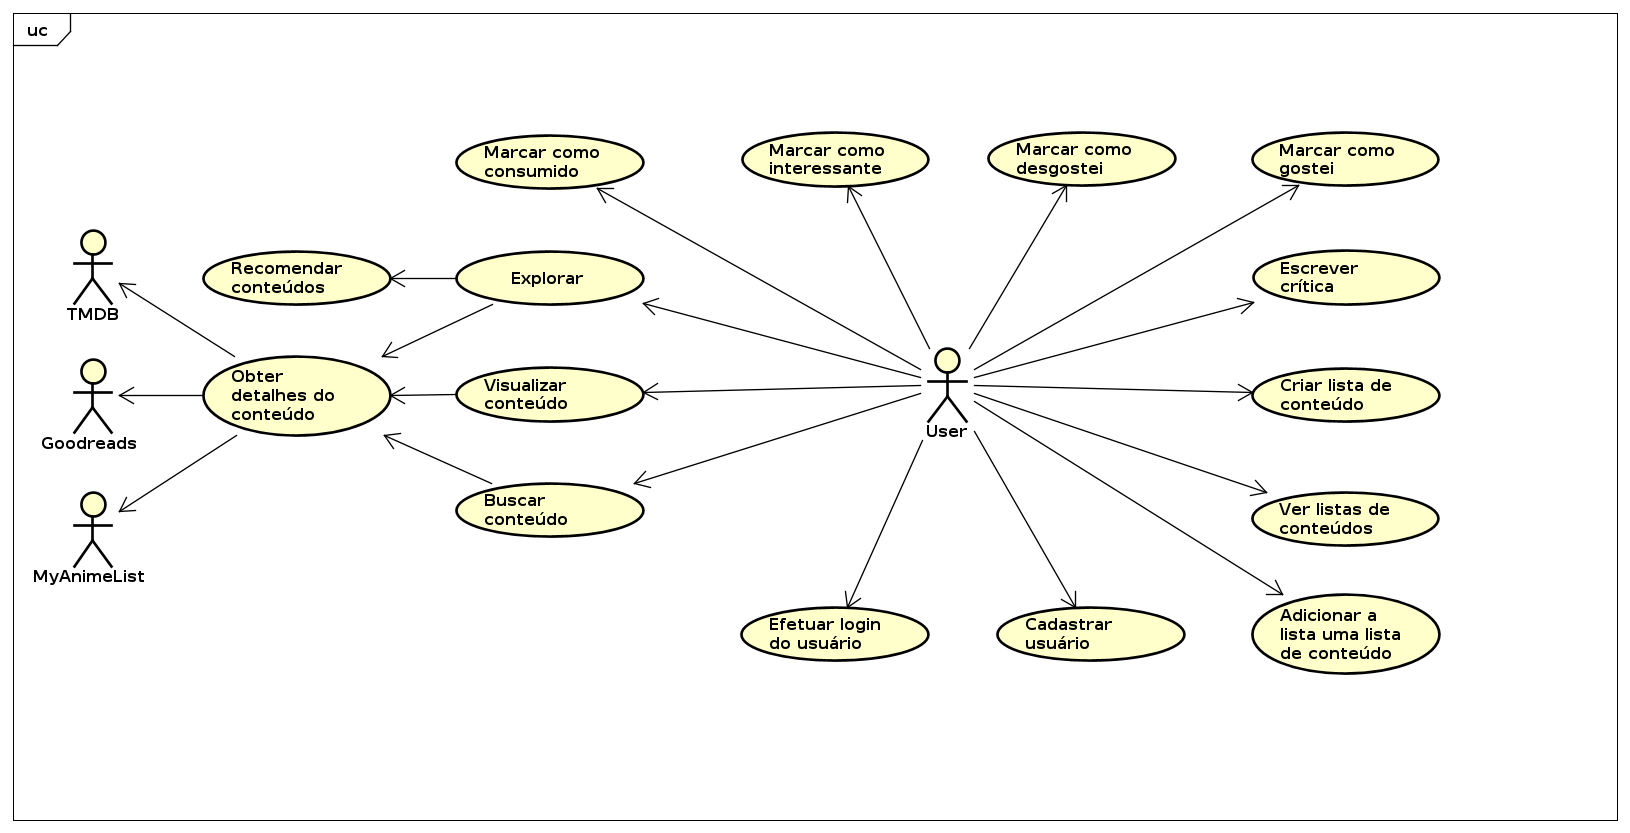
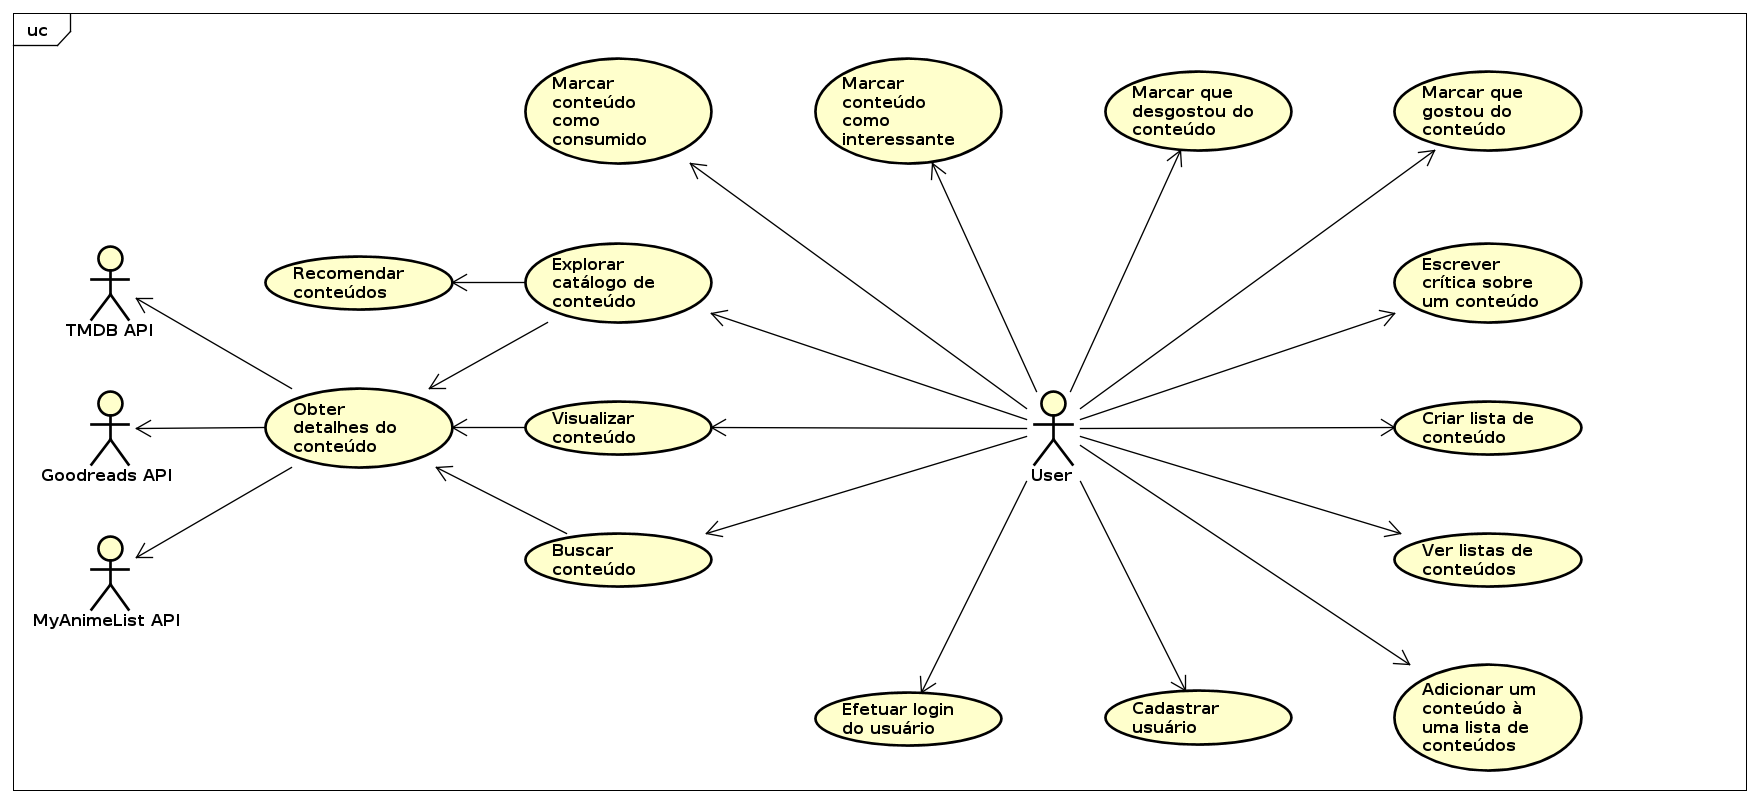
fix(docs): update asta model

diff --git a/docs/events.md b/docs/events.md
@@ -70,7 +70,7 @@ Logo após o sistema exibe uma sessão de reviews, onde o usuário pode ler crí
 4. Ao selecionar um conteúdo o fluxo atual reinicia para o conteúdo selecionado; 
 O usuário pode retornar à página anterior, no estado em que havia deixado.
 
-## Explorar conteúdos
+## Explorar catálogo de conteúdos
 Este caso de uso permite que o usuário explore o conteúdo com base em recomendações personalizadas para o usuário.
 
 **Pré condição**: O usuário deve estar logado no sistema e estar na página de exploração.
